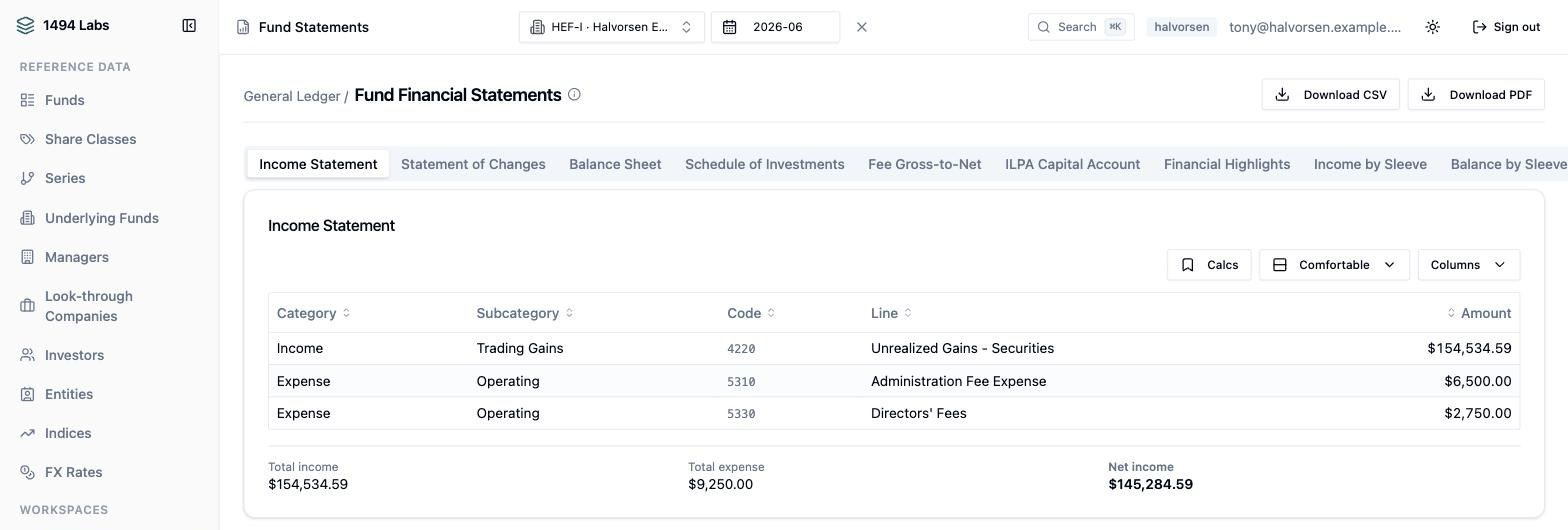
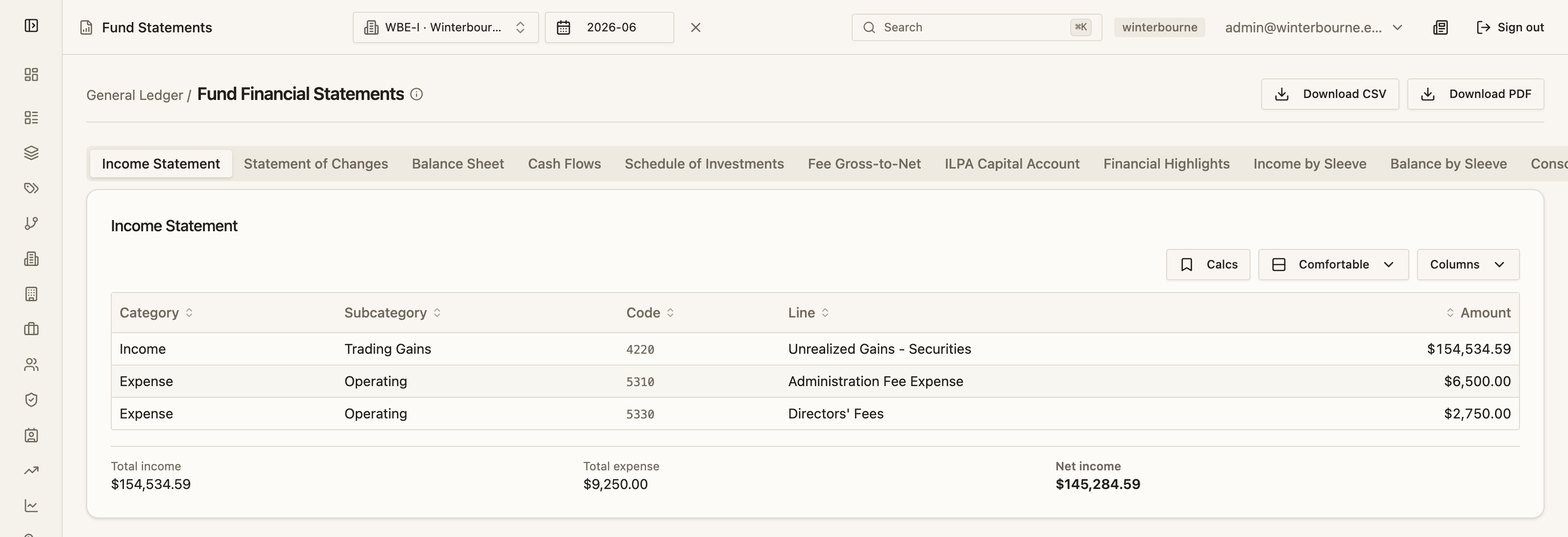
Re-shoot thirteen more screenshots: two more demo tenants were named after real firms
Clearing the remaining demo tenant names found that all of them collided, not
just the one fixed earlier today. One was a real independent wealth manager
with $41bn under management - the exact kind of firm this product is sold to -
and another was a well-known hedge-fund founder's surname on an endowment.

Both tenants renamed and their screenshots re-shot with anonymous logins. The
exposure was wider than the landing page: these images also appear on the
platform, hedge-fund, administrator, private-equity and two notes pages.

Numbers are unchanged - the books are deterministic - so no caption or alt text
moved. Verified: the distribution still reads GP carry received $532,840.19
against $555,041.87 entitled, the worked example still computes preferred
accrued of $46,932,807.68, and the holdings still list the same six managers.

Two deliberate differences from the 2026-08-25 originals: the navigation
renders as the collapsed rail, which has been the product default since late
August, so these shots show the app as it ships now; and the account menu shows
an anonymous login rather than a personal one.

Image height attributes across every page were swept against the real files
again; twenty-seven more were wrong and were shifting layout as images loaded.

diff --git a/index.html b/index.html
@@ -278,7 +278,7 @@ footer.site{border-top:1px solid var(--rule);padding:34px 0 56px;margin-top:clam
     <hr class="herorule">
 
     <figure class="shot lead">
-      <img src="/assets/screens/fund-dashboard.jpg" width="1568" height="566"
+      <img src="/assets/screens/fund-dashboard.jpg" width="1568" height="941"
            decoding="async"
            alt="A fund dashboard showing NAV of $23,625,473.00 as of 2026-06-30, position value, fees accrued and operating cash against its configured floor.">
       <figcaption>
@@ -374,7 +374,7 @@ footer.site{border-top:1px solid var(--rule);padding:34px 0 56px;margin-top:clam
     </div>
 
     <figure class="shot">
-      <img src="/assets/screens/nav-restatement.jpg" width="1568" height="630"
+      <img src="/assets/screens/nav-restatement.jpg" width="1568" height="977"
            loading="lazy" decoding="async"
            alt="A NAV restatement history listing every mutation to a fund's NAV with its prior value, new value and delta.">
       <figcaption>
@@ -386,7 +386,7 @@ footer.site{border-top:1px solid var(--rule);padding:34px 0 56px;margin-top:clam
     </figure>
 
     <figure class="shot">
-      <img src="/assets/screens/reconciliation-breaks.jpg" width="1485" height="262"
+      <img src="/assets/screens/reconciliation-breaks.jpg" width="1485" height="312"
            loading="lazy" decoding="async"
            alt="A reconciliation break worklist: two open breaks on one fund, each naming the check that found it and a difference of -$250,000.00.">
       <figcaption>
@@ -429,7 +429,7 @@ footer.site{border-top:1px solid var(--rule);padding:34px 0 56px;margin-top:clam
     </p>
 
     <figure class="shot">
-      <img src="/assets/screens/allocation-per-investor.jpg" width="1485" height="610"
+      <img src="/assets/screens/allocation-per-investor.jpg" width="1485" height="928"
            loading="lazy" decoding="async" alt="A per-investor allocation run: six investor accounts with opening capital, flows, and a fund total reconciling to ending capital.">
       <figcaption><b>Six accounts, one run, and a fund total that ties.</b> Opening $23,499,503.07, net profit and loss $125,969.93, ending $23,625,473.00, which is the NAV on the dashboard. Management fees and expenses are attributed per investor, so a fee that reaches NAV reaches the capital account it belongs to.</figcaption>
     </figure>
@@ -445,7 +445,7 @@ footer.site{border-top:1px solid var(--rule);padding:34px 0 56px;margin-top:clam
       figures on another.
     </p>
     <p class="lead" style="margin-bottom:0">
-      Every screen in this section is the same fund on the same date: HEF-I at
+      Every screen in this section is the same fund on the same date: WBE-I at
       30 June 2026. Read them together and they reconcile, which is not the same
       as matching. Net income of $145,284.59 on the income statement becomes
       $125,969.93 of investor profit and loss on the allocation run above, and
@@ -456,7 +456,7 @@ footer.site{border-top:1px solid var(--rule);padding:34px 0 56px;margin-top:clam
     </p>
     <div class="shots">
       <figure class="shot">
-        <img src="/assets/screens/income-statement.jpg" width="1568" height="530"
+        <img src="/assets/screens/income-statement.jpg" width="1568" height="537"
              loading="lazy" decoding="async"
              alt="An income statement with trading gains, administration fee expense and directors' fees, totalling net income of $145,284.59.">
         <figcaption>
@@ -465,7 +465,7 @@ footer.site{border-top:1px solid var(--rule);padding:34px 0 56px;margin-top:clam
         </figcaption>
       </figure>
       <figure class="shot">
-        <img src="/assets/screens/statement-of-changes.jpg" width="1568" height="596"
+        <img src="/assets/screens/statement-of-changes.jpg" width="1568" height="603"
              loading="lazy" decoding="async"
              alt="A Statement of Changes in Partners' Capital, from beginning capital through contributions, net income and fees to ending capital.">
         <figcaption>
@@ -474,7 +474,7 @@ footer.site{border-top:1px solid var(--rule);padding:34px 0 56px;margin-top:clam
         </figcaption>
       </figure>
       <figure class="shot">
-        <img src="/assets/screens/trial-balance.jpg" width="1485" height="670"
+        <img src="/assets/screens/trial-balance.jpg" width="1485" height="627"
              loading="lazy" decoding="async"
              alt="A trial balance of thirteen accounts, marked Balanced, with a banner explaining that the period is open so the balance is derived live.">
         <figcaption>
@@ -486,7 +486,7 @@ footer.site{border-top:1px solid var(--rule);padding:34px 0 56px;margin-top:clam
     </div>
 
     <figure class="shot">
-      <img src="/assets/screens/cash-movements.jpg" width="1568" height="650"
+      <img src="/assets/screens/cash-movements.jpg" width="1568" height="972"
            loading="lazy" decoding="async"
            alt="A cash movements blotter with 170 settled movements, each portfolio transaction paired with its GL-derived counterpart.">
       <figcaption>
@@ -609,7 +609,7 @@ footer.site{border-top:1px solid var(--rule);padding:34px 0 56px;margin-top:clam
     </div>
 
     <figure class="shot">
-      <img src="/assets/screens/portfolio-holdings.jpg" width="1568" height="430"
+      <img src="/assets/screens/portfolio-holdings.jpg" width="1568" height="434"
            loading="lazy" decoding="async"
            alt="Portfolio holdings for a fund-of-funds: six named underlying managers with units, current value, cost basis and unrealized gain.">
       <figcaption>
@@ -683,14 +683,14 @@ footer.site{border-top:1px solid var(--rule);padding:34px 0 56px;margin-top:clam
     </figure>
 
     <figure class="shot">
-      <img src="/assets/screens/waterfall-worked-example.jpg" width="1485" height="780"
+      <img src="/assets/screens/waterfall-worked-example.jpg" width="1485" height="928"
            loading="lazy" decoding="async"
            alt="The waterfall builder: a named convention set, a tier stack with carry and catch-up rates, and a worked example panel computing preferred accrued of $46,932,807.68 and a catch-up band from hypothetical distributions.">
       <figcaption><b>Waterfalls are configured, not chosen from two presets.</b> A named convention set to start from, every field a closed choice with a stated meaning, and a worked example that runs hypothetical cash through the real engine while you edit. You see what a term does before it governs anyone's money.</figcaption>
     </figure>
 
     <figure class="shot">
-      <img src="/assets/screens/distribution-waterfall.jpg" width="1485" height="512"
+      <img src="/assets/screens/distribution-waterfall.jpg" width="1485" height="482"
            loading="lazy" decoding="async"
            alt="A waterfall policy with four tiers - return of capital, accrued preferred, GP catch-up to 20 percent, split 80/20 - and a line reading GP carry received $532,840.19 against $555,041.87 entitled.">
       <figcaption><b>A distribution the platform computed, not one it was told.</b> The four tiers are the fund's own policy and the split is derived from them, with carry received reported beside carry entitled so the gap a whole-fund test creates is on the screen rather than in somebody's working file. The same screen also accepts a distribution modelled elsewhere, booked and allocated with no waterfall policy at all.</figcaption>

diff --git a/fund-accounting-software/index.html b/fund-accounting-software/index.html
@@ -144,7 +144,7 @@
     </p>
 
     <figure class="shot">
-      <img src="/assets/screens/fund-dashboard.jpg" width="1568" height="566"
+      <img src="/assets/screens/fund-dashboard.jpg" width="1568" height="941"
            loading="lazy" decoding="async" alt="A fund dashboard showing NAV as of a selected period, position value, fees accrued and operating cash against its floor.">
       <figcaption><b>NAV as of the period you actually selected.</b> The positions behind it, the fees posted to date, and the cash the fund can spend, with the floor it is measured against.</figcaption>
     </figure>
@@ -173,13 +173,13 @@
     </p>
 
     <figure class="shot">
-      <img src="/assets/screens/income-statement.jpg" width="1568" height="530"
+      <img src="/assets/screens/income-statement.jpg" width="1568" height="537"
            loading="lazy" decoding="async" alt="An income statement with trading gains, administration fee expense and directors' fees, totalling net income.">
       <figcaption><b>Real operating expenses carrying their GL codes.</b> Expenses post through the income and expense domain, which is also the only place the allocation engine can see them, so a cost that reaches NAV reaches capital accounts too.</figcaption>
     </figure>
 
     <figure class="shot">
-      <img src="/assets/screens/allocation-per-investor.jpg" width="1485" height="610"
+      <img src="/assets/screens/allocation-per-investor.jpg" width="1485" height="928"
            loading="lazy" decoding="async" alt="A per-investor allocation run with each investor's capital roll-forward and a fund total that reconciles.">
       <figcaption><b>The period's profit and loss, split across investors.</b> Opening $23,499,503.07, net $125,969.93, ending $23,625,473.00 - which is the NAV on the dashboard above. Fees and expenses are attributed per investor rather than netted at the fund and apportioned afterwards.</figcaption>
     </figure>
@@ -203,13 +203,13 @@
     </p>
 
     <figure class="shot">
-      <img src="/assets/screens/nav-restatement.jpg" width="1568" height="630"
+      <img src="/assets/screens/nav-restatement.jpg" width="1568" height="977"
            loading="lazy" decoding="async" alt="A NAV restatement history listing every mutation to a fund's NAV with prior value, new value and delta.">
       <figcaption><b>Every change to a struck NAV keeps its own record.</b> The trail is a property of the ledger rather than a log somebody remembered to keep.</figcaption>
     </figure>
 
     <figure class="shot">
-      <img src="/assets/screens/trial-balance.jpg" width="1485" height="670"
+      <img src="/assets/screens/trial-balance.jpg" width="1485" height="627"
            loading="lazy" decoding="async" alt="A trial balance of thirteen accounts marked Balanced, with a banner explaining the period is open so the balance is derived live.">
       <figcaption><b>And the ledger those statements read.</b> Marked <em>balanced</em>, and it states its provenance: this period is open, so the figure is derived now across all periods. Close the period and the trial balance is frozen as an artifact, which is what a statement produced a year later reads from.</figcaption>
     </figure>

diff --git a/hedge-fund-accounting/index.html b/hedge-fund-accounting/index.html
@@ -136,13 +136,13 @@
     </p>
 
     <figure class="shot">
-      <img src="/assets/screens/fund-dashboard.jpg" width="1568" height="566"
+      <img src="/assets/screens/fund-dashboard.jpg" width="1568" height="941"
            loading="lazy" decoding="async" alt="A fund dashboard showing NAV as of a selected period, position value, fees accrued and operating cash against its floor.">
       <figcaption><b>NAV as of the period actually selected.</b> Fees accrued inception to date, and the cash the fund can spend against its configured floor.</figcaption>
     </figure>
 
     <figure class="shot">
-      <img src="/assets/screens/allocation-per-investor.jpg" width="1485" height="610"
+      <img src="/assets/screens/allocation-per-investor.jpg" width="1485" height="928"
            loading="lazy" decoding="async" alt="A per-investor allocation run with each investor's capital roll-forward, profit and loss attribution and rate of return.">
       <figcaption><b>Each investor's roll-forward, gross to net.</b> Opening, flows, profit and loss attributed before and after fees, ending, and a rate of return on both bases with quarter and year to date geometrically linked. The gap markers are deliberate: a period an investor was not in is not silently linked through.</figcaption>
     </figure>
@@ -157,7 +157,7 @@
     </p>
 
     <figure class="shot">
-      <img src="/assets/screens/portfolio-holdings.jpg" width="1568" height="430"
+      <img src="/assets/screens/portfolio-holdings.jpg" width="1568" height="434"
            loading="lazy" decoding="async" alt="Portfolio holdings for a fund-of-funds: six named underlying managers with units, current value, cost basis and unrealized gain.">
       <figcaption><b>Six managers, each with its own basis and unrealized position.</b> The date each was last revalued sits on the row, because the age of an input is part of the number.</figcaption>
     </figure>
@@ -171,7 +171,7 @@
     </p>
 
     <figure class="shot">
-      <img src="/assets/screens/cash-movements.jpg" width="1568" height="650"
+      <img src="/assets/screens/cash-movements.jpg" width="1568" height="972"
            loading="lazy" decoding="async" alt="A cash movements blotter with settled movements, each portfolio transaction paired with its GL-derived counterpart.">
       <figcaption><b>Every movement carries its source, counterparty and settlement status.</b> Each portfolio transaction sits beside the GL-derived movement it produced, which makes a cash break a comparison rather than an investigation.</figcaption>
     </figure>

diff --git a/private-equity-fund-accounting/index.html b/private-equity-fund-accounting/index.html
@@ -148,14 +148,14 @@
     </p>
 
     <figure class="shot">
-      <img src="/assets/screens/waterfall-worked-example.jpg" width="1485" height="780"
+      <img src="/assets/screens/waterfall-worked-example.jpg" width="1485" height="928"
            loading="lazy" decoding="async"
            alt="The waterfall builder: a named convention set, a tier stack with carry and catch-up rates, and a worked example panel computing preferred accrued of $46,932,807.68 and a catch-up band from hypothetical distributions.">
       <figcaption><b>The terms, before they are terms.</b> Start from a named convention set rather than six dropdowns, then edit any field; every one is a closed choice with a stated meaning, so there is no expression language to get wrong. The panel on the right runs hypothetical cash through the real distribution engine as you type, which is how you find out what a catch-up rate does before it governs anybody's money. The note under the model set says the platform runs the waterfall fund-level rather than per partner, and is <em>deliberately not called compliant</em>.</figcaption>
     </figure>
 
     <figure class="shot">
-      <img src="/assets/screens/distribution-waterfall.jpg" width="1485" height="512"
+      <img src="/assets/screens/distribution-waterfall.jpg" width="1485" height="482"
            loading="lazy" decoding="async"
            alt="A waterfall policy with four tiers - return of capital, accrued preferred, GP catch-up to 20 percent, split 80/20 - and a line reading GP carry received $532,840.19 against $555,041.87 entitled.">
       <figcaption><b>The same seven answers, entered as tiers.</b> Return of capital, accrued preferred, a catch-up to 20% at 100%, then an 80/20 split, marked whole-of-fund and priced against an 8% preferred net of return of capital. Carry received sits beside carry entitled, because on a whole-fund test those are different numbers and the difference is the point.</figcaption>

diff --git a/fund-administration-software/index.html b/fund-administration-software/index.html
@@ -145,7 +145,7 @@
     </p>
 
     <figure class="shot">
-      <img src="/assets/screens/statement-of-changes.jpg" width="1568" height="596"
+      <img src="/assets/screens/statement-of-changes.jpg" width="1568" height="603"
            loading="lazy" decoding="async" alt="A Statement of Changes in Partners' Capital, from beginning capital through contributions, net income and fees to ending capital.">
       <figcaption><b>Ending capital ties to the dashboard NAV to the cent.</b> Not because a reconciliation ran, but because both are reads of the same ledger.</figcaption>
     </figure>
@@ -179,7 +179,7 @@
     </p>
 
     <figure class="shot">
-      <img src="/assets/screens/break-detail.jpg" width="1485" height="400"
+      <img src="/assets/screens/break-detail.jpg" width="1485" height="928"
            loading="lazy" decoding="async"
            alt="A break detail panel showing expected, actual and difference, a note field, and buttons to acknowledge, resolve or accept the difference.">
       <figcaption>
@@ -201,7 +201,7 @@
     </p>
 
     <figure class="shot">
-      <img src="/assets/screens/cash-movements.jpg" width="1568" height="650"
+      <img src="/assets/screens/cash-movements.jpg" width="1568" height="972"
            loading="lazy" decoding="async" alt="A cash movements blotter with settled movements, each portfolio transaction paired with its GL-derived counterpart.">
       <figcaption><b>Cash movements, with their sources.</b> Bulk selection and row actions across the grids, because an administrator's day is spent on many rows at once rather than one.</figcaption>
     </figure>

diff --git a/notes/european-vs-american-waterfall/index.html b/notes/european-vs-american-waterfall/index.html
@@ -354,7 +354,7 @@
     </p>
 
     <figure class="shot">
-      <img src="/assets/screens/distribution-waterfall.jpg" width="1485" height="512"
+      <img src="/assets/screens/distribution-waterfall.jpg" width="1485" height="482"
            loading="lazy" decoding="async"
            alt="A waterfall policy with four tiers - return of capital, accrued preferred, GP catch-up to 20 percent, split 80/20 - and a line reading GP carry received $532,840.19 against $555,041.87 entitled.">
       <figcaption><b>The same seven answers, entered as tiers.</b> The split below is computed from them, and carry received is reported beside carry entitled, so the gap a whole-fund test creates is on the screen instead of in a working file.</figcaption>

diff --git a/notes/abor-and-ibor/index.html b/notes/abor-and-ibor/index.html
@@ -245,7 +245,7 @@
     </ul>
 
     <figure class="shot">
-      <img src="/assets/screens/statement-of-changes.jpg" width="1568" height="596"
+      <img src="/assets/screens/statement-of-changes.jpg" width="1568" height="603"
            loading="lazy" decoding="async"
            alt="A Statement of Changes in Partners' Capital, with beginning capital, contributions, allocations and ending capital.">
       <figcaption>
